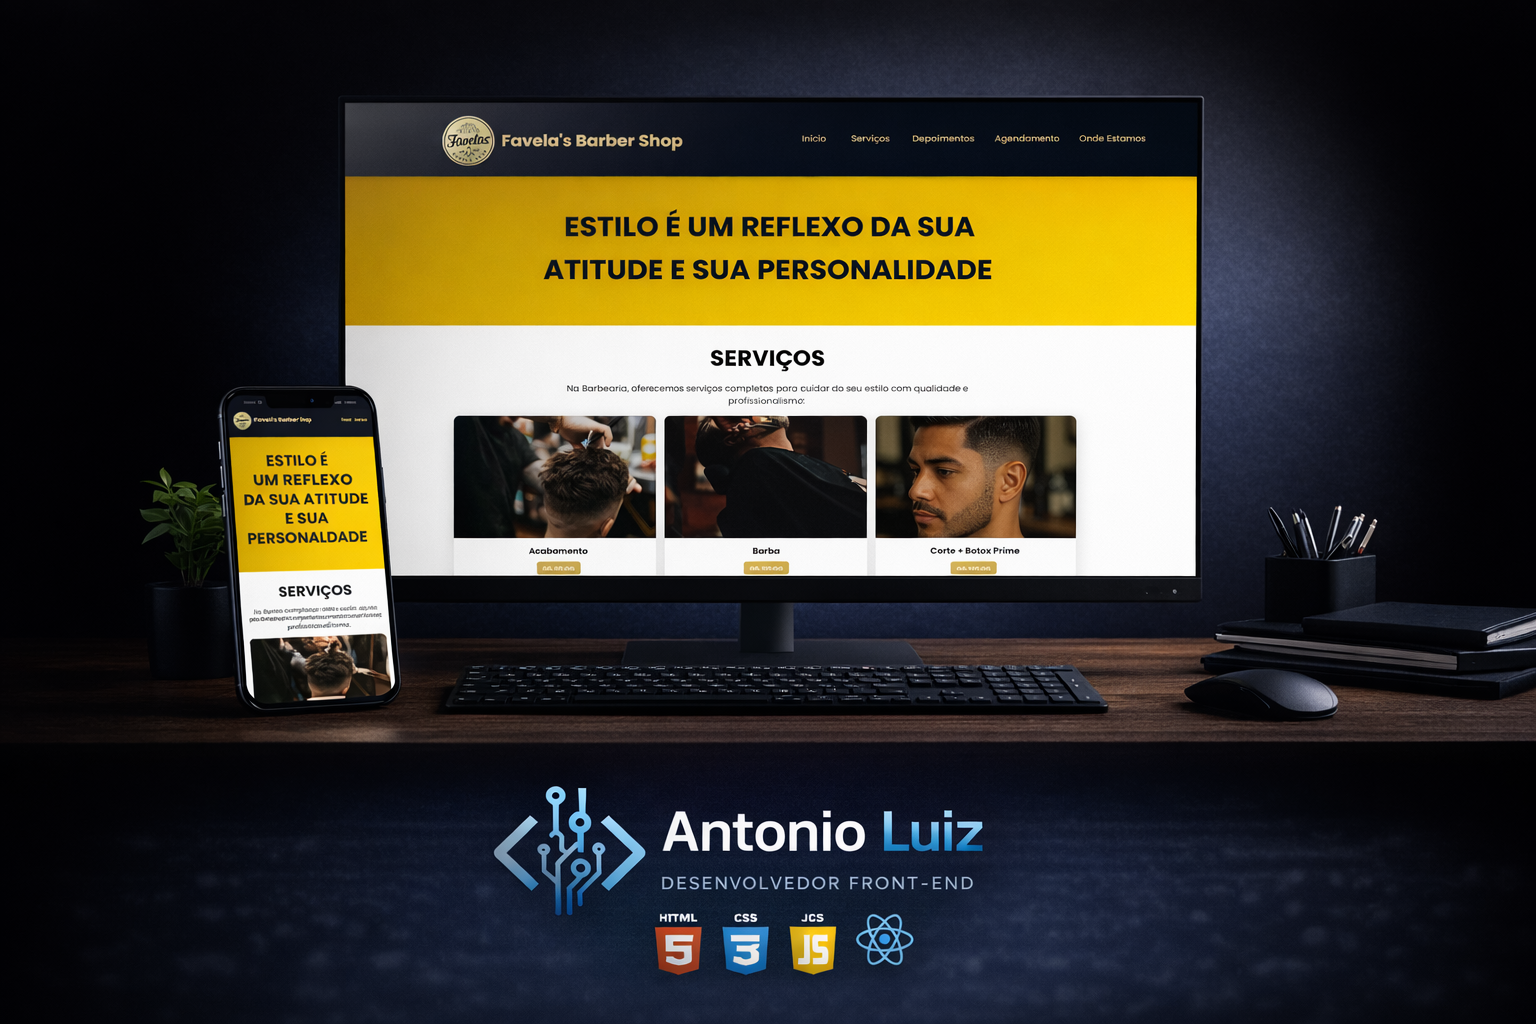
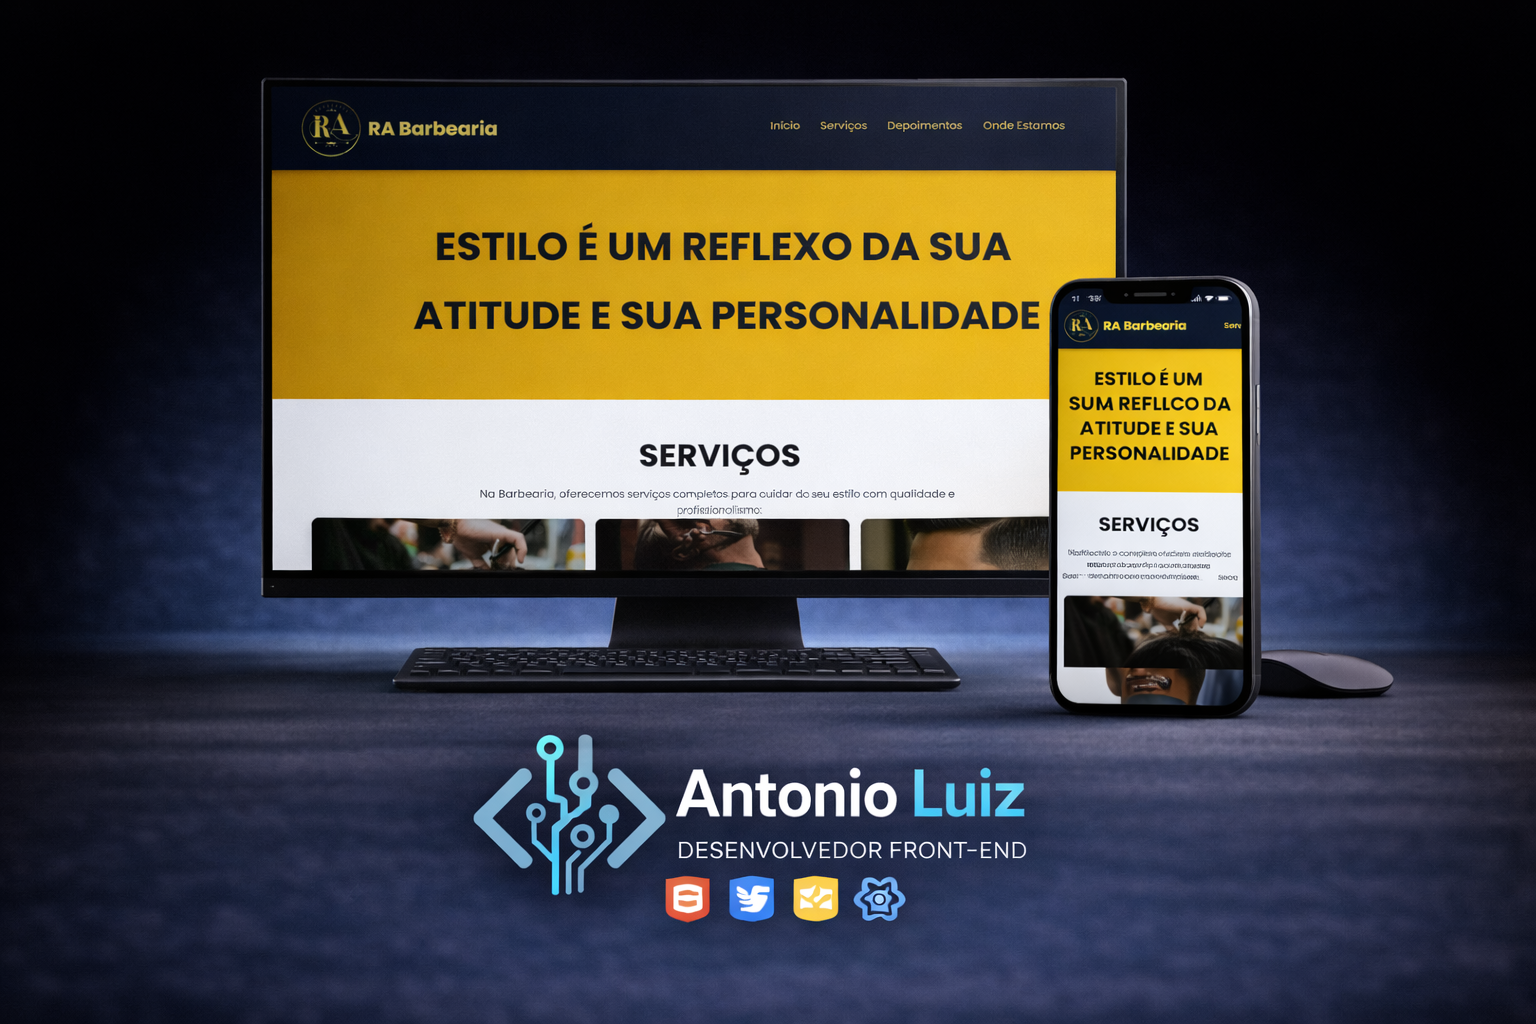
mudanças no nome e imagens

diff --git a/index.html b/index.html
@@ -4,24 +4,20 @@
 <head>
     <meta charset="UTF-8" />
     <meta name="viewport" content="width=device-width, initial-scale=1.0" />
-    <title>Favela's Barber Shop - Agendamento Online</title>
+    <title>RA Barbearia</title>
 
-    <!-- Google Fonts -->
     <link href="https://fonts.googleapis.com/css2?family=Poppins:wght@300;400;500;600;700&display=swap"
         rel="stylesheet" />
-    <!-- Boxicons -->
     <link href="https://unpkg.com/boxicons@2.1.4/css/boxicons.min.css" rel="stylesheet" />
-    <!-- CSS -->
     <link rel="stylesheet" href="style.css" />
 </head>
 
 <body>
-    <!-- Header -->
     <header>
         <nav>
             <a href="#home" class="logo">
-                <img src="./assets/FAVELA'S BARBERSHOP.png" alt="logo" class="logo-img">
-                Favela's Barber Shop
+                <img src="./assets/logo-ra-baberaria1.png" alt="logo" class="logo-img">
+                RA Barbearia
             </a>
             <ul class="nav-links">
                 <li><a href="#home">Início</a></li>
@@ -166,10 +162,10 @@
         <!-- Um único barbeiro centralizado -->
         <div class="single-barber-wrap">
             <div class="haircut">
-                <img src="./assets/barbeiro1.jpg" alt="Thiago" class="service-img">
+                <img src="./assets/barbeiro2.png" alt="Thiago" class="service-img">
                 <div class="haircut-info">
                     <strong>Thiago</strong>
-                    <button class="button-contact openModalBtn" data-pro="Thiago" data-wa="5521986020031"
+                    <button class="button-contact openModalBtn" data-pro="Thiago" data-wa="5521999999999"
                         data-col="agendamentos">
                         <i class='bx bx-calendar'></i> Agende Seu Horário
                     </button>
@@ -186,7 +182,7 @@
                     </div>
                     <div class="info-item">
                         <i class='bx bx-phone'></i>
-                        <span>(21) 98602-0031</span>
+                        <span>(21) 99999-9999</span>
                     </div>
                 </div>
             </div>
@@ -207,20 +203,18 @@
     <!-- Footer -->
     <footer>
         <div class="social-links">
-            <a href="https://www.instagram.com/favelasbarbershop?igsh=Nzd2emJuem93dzJq" target="_blank"><i
-                    class='bx bxl-instagram'></i></a>
-            <a href="https://www.facebook.com/share/15bFHGqvEkY/?mibextid=wwXIfr" target="_blank"><i
-                    class='bx bxl-facebook'></i></a>
-            <a href="https://wa.me/5521986020031" target="_blank"><i class='bx bxl-whatsapp'></i></a>
+            <a href="https://www.instagram.com/" target="_blank"><i class='bx bxl-instagram'></i></a>
+            <a href="https://www.facebook.com/" target="_blank"><i class='bx bxl-facebook'></i></a>
+            <a href="https://wa.me/5521999999999" target="_blank"><i class='bx bxl-whatsapp'></i></a>
         </div>
-        <p>&copy; 2026 Favela's Barber Shop. Todos os direitos reservados.</p>
-        <p>📍 R. das Árvores - Fragoso, Magé - RJ, 25935-426 | ☎ (21) 98602-0031</p>
+        <p>&copy; 2026 RA Barbearia. Todos os direitos reservados.</p>
+        <p>📍 R. das Árvores - Fragoso, Magé - RJ, 25935-426 | ☎ (21) 99999-9999</p>
         <br>
         <p>Desenvolvido por antonioluiz.dev@outlook.com</p>
     </footer>
 
     <!-- WhatsApp Float -->
-    <a href="https://wa.me/5521986020031" class="whatsapp-float" target="_blank">
+    <a href="https://wa.me/5521999999999" class="whatsapp-float" target="_blank">
         <i class='bx bxl-whatsapp'></i>
     </a>
 
